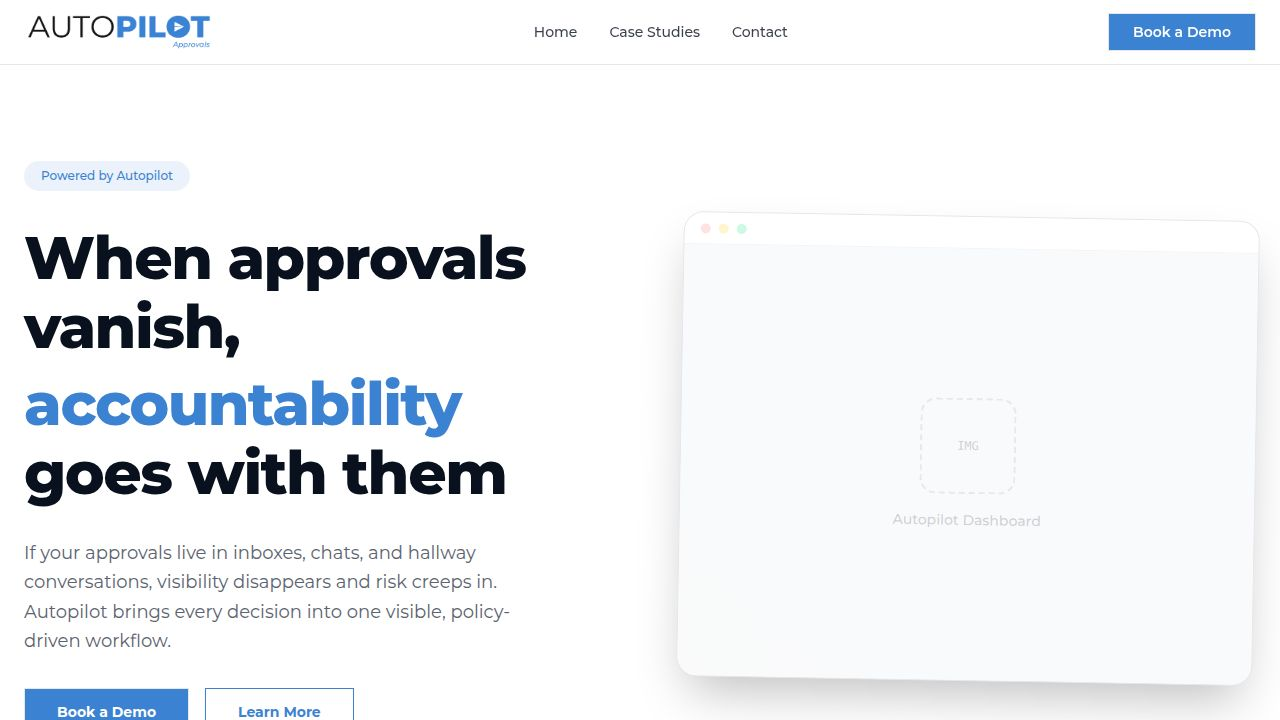
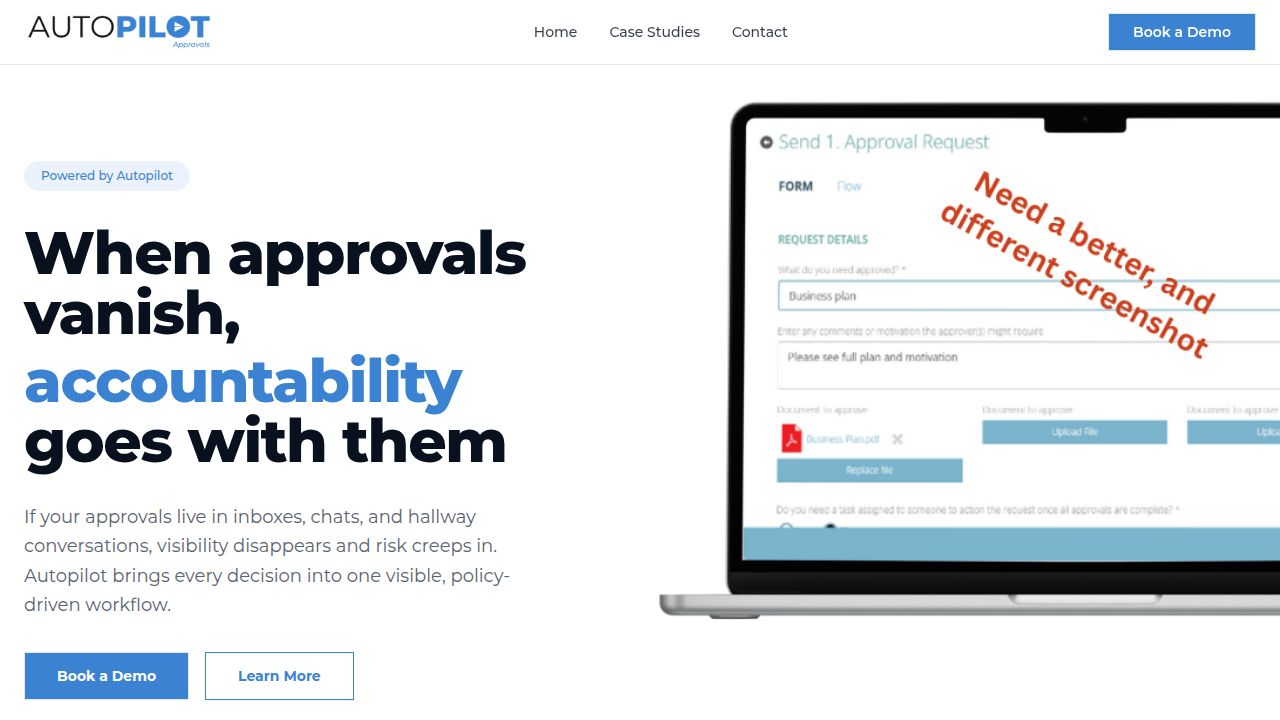
Update the "Email Chaos" image to a new visual
Replace the placeholder image in the "Email Chaos" section with the `messy-inbox-real.png` asset.

Replit-Commit-Author: Agent
Replit-Commit-Session-Id: ff5e6b76-a9ec-4af8-a749-0b0fee5cfac3
Replit-Commit-Checkpoint-Type: full_checkpoint
Replit-Commit-Event-Id: 2a62ef62-0979-4d29-8983-e7e948616ddf
Replit-Commit-Screenshot-Url: https://storage.googleapis.com/screenshot-production-us-central1/56cf1ef1-47a4-459b-acb5-bde375fe4bb0/ff5e6b76-a9ec-4af8-a749-0b0fee5cfac3/cNqMTKu
Replit-Helium-Checkpoint-Created: true

Changed region(s): [[0.0, 0.3056, 0.4062, 1.0], [0.5, 0.1222, 1.0, 0.8861], [0.5312, 0.9167, 0.9688, 0.9778]]

diff --git a/client/src/pages/home.tsx b/client/src/pages/home.tsx
@@ -73,7 +73,7 @@ export default function Home() {
         <div className="container mx-auto px-4 md:px-6">
           <div className="grid grid-cols-1 lg:grid-cols-2 gap-16 items-center">
              <div className="order-2 lg:order-1">
-                <FramedImagePlaceholder className="w-full" label="Email Chaos" imageSrc={MessyInbox} />
+                <FramedImagePlaceholder className="w-full" label="Email Chaos" imageSrc="/messy-inbox-real.png" />
              </div>
              <div className="order-1 lg:order-2 space-y-6">
                <h2 className="text-3xl md:text-4xl font-bold">The approval bottleneck is real</h2>
